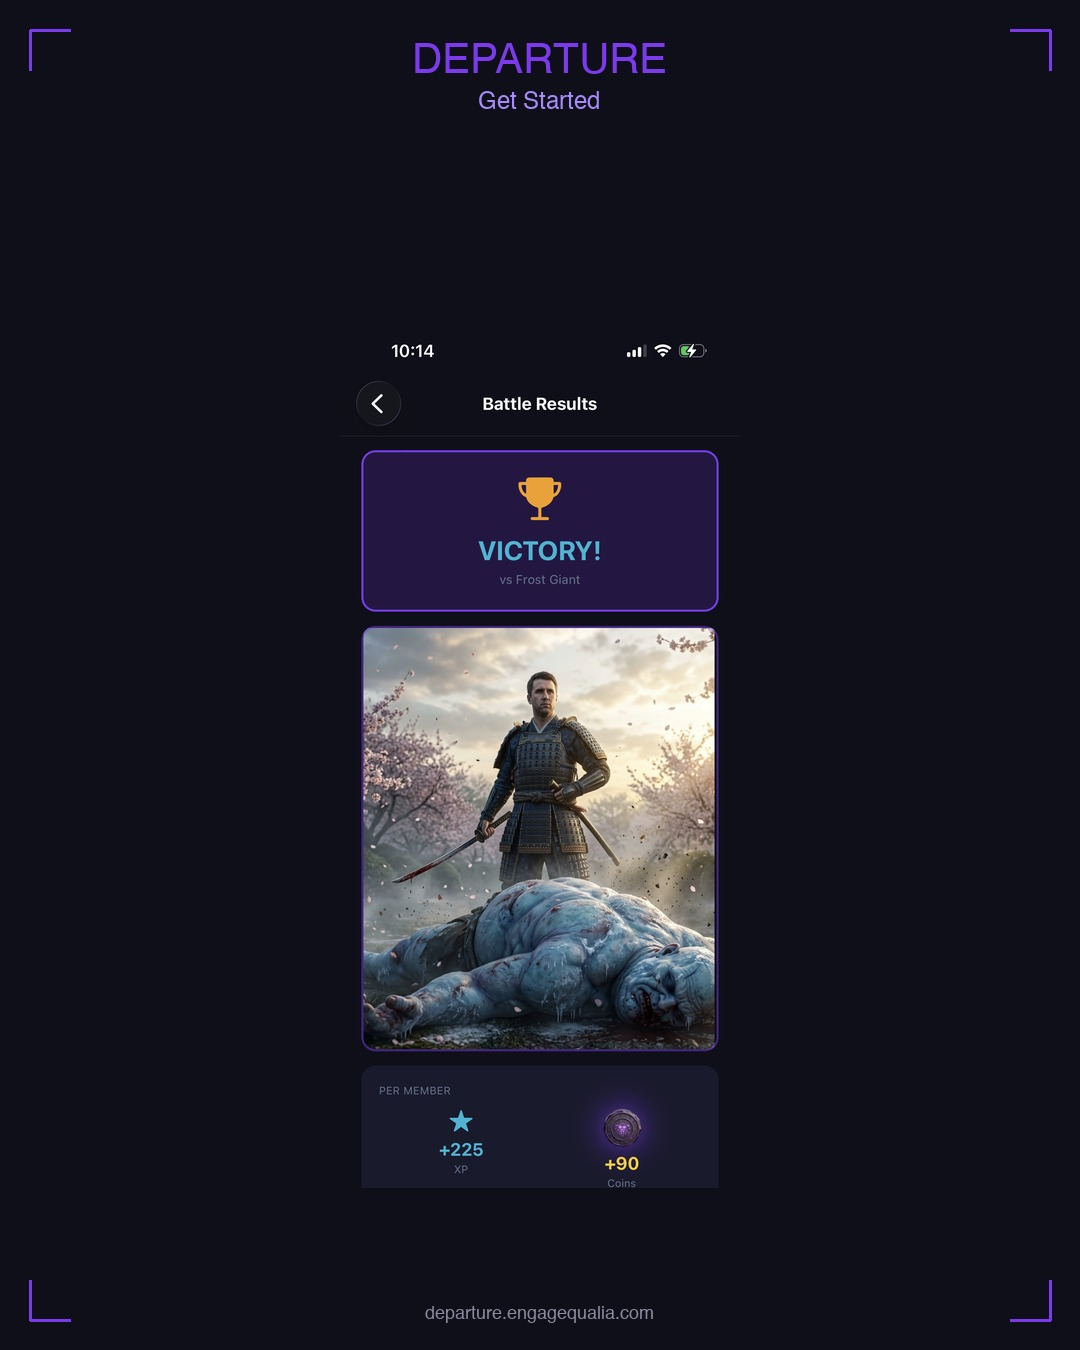
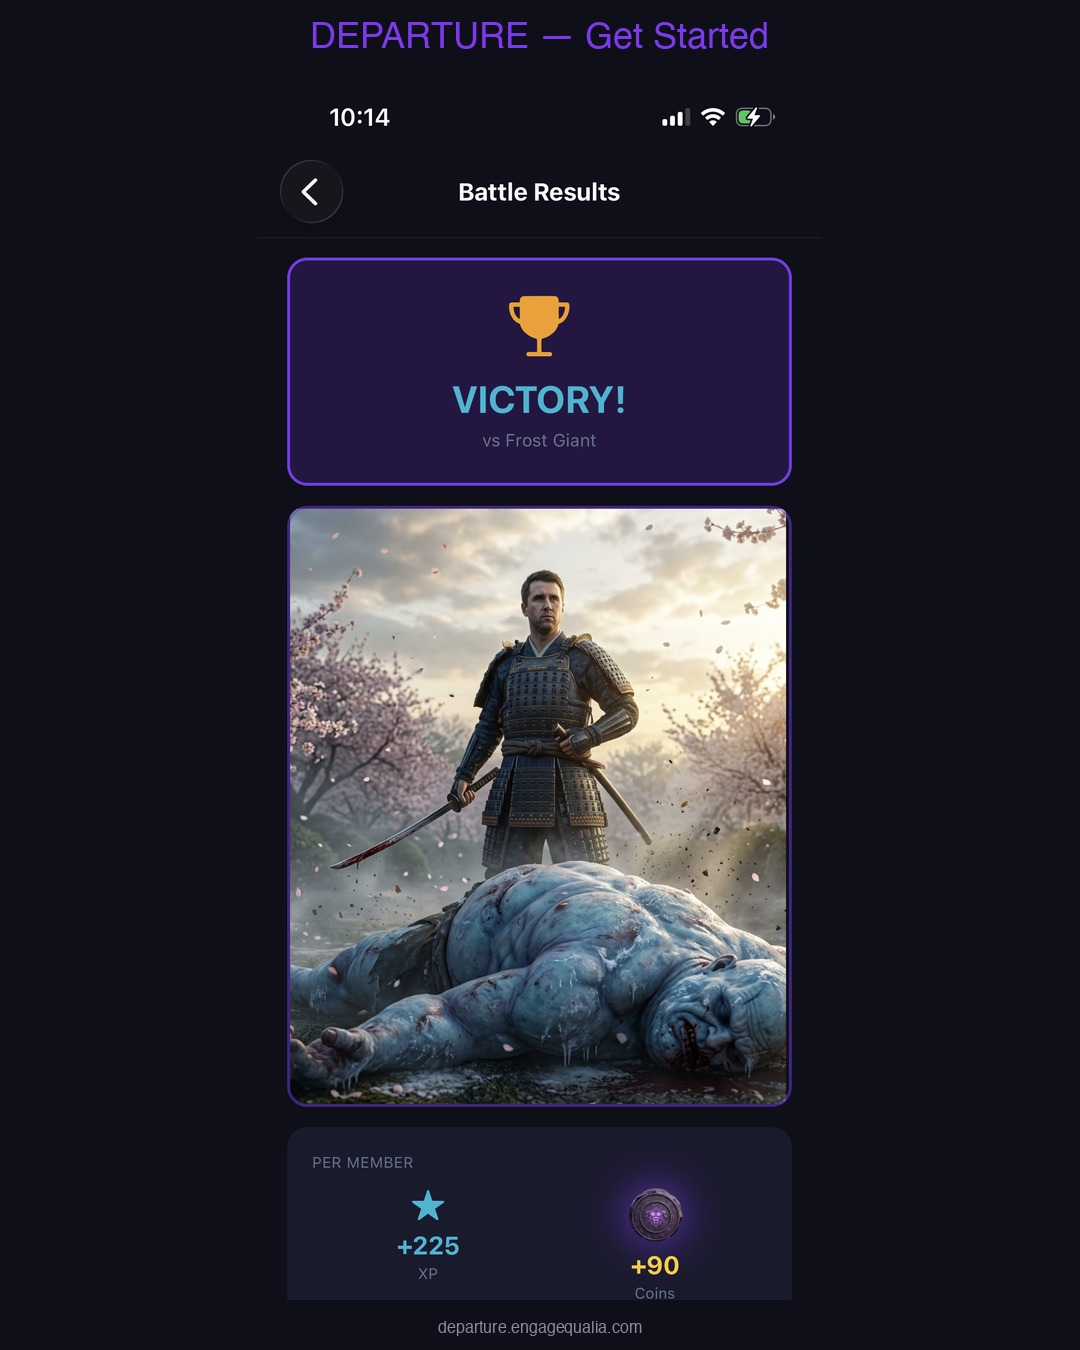
Improve social images: screenshots fill frame instead of tiny centered

diff --git a/scripts/generate-social-images.py b/scripts/generate-social-images.py
@@ -251,54 +251,55 @@ def create_monster_card(slug, data, output_path):
     print(f"  Created: {os.path.basename(output_path)}")
 
 def create_screenshot_post(screenshot_name, output_name, title=None, subtitle=None):
-    """Create a branded screenshot post."""
+    """Create a branded screenshot post — screenshot fills most of the frame."""
     img = Image.new("RGB", (W, H), BG_COLOR)
     draw = ImageDraw.Draw(img)
 
-    font_brand = get_font(42)
-    font_sub = get_font(24)
-    font_url = get_font(18)
+    font_brand = get_font(36)
+    font_sub = get_font(22)
+    font_url = get_font(16)
 
-    # Load screenshot
+    # Reserve space for branding
+    top_margin = 75 if title else 20
+    bottom_margin = 50
+    available_h = H - top_margin - bottom_margin
+
+    # Load screenshot and scale to fill the available space
     ss_path = os.path.join(SCREENSHOTS_DIR, screenshot_name)
     if os.path.exists(ss_path):
         ss = Image.open(ss_path).convert("RGBA")
         sw, sh = ss.size
-        target_w = 400
-        scale = target_w / sw
-        target_h = int(sh * scale)
-        ss = ss.resize((target_w, target_h), Image.LANCZOS)
 
-        x = (W - target_w) // 2
-        y_offset = 80 if title else 30
-        y = (H - target_h) // 2 + y_offset
+        # Scale to fit width (with small padding) or height, whichever is constraining
+        max_w = W - 60  # 30px padding each side
+        scale_w = max_w / sw
+        scale_h = available_h / sh
+        scale = min(scale_w, scale_h)
+
+        new_w = int(sw * scale)
+        new_h = int(sh * scale)
+        ss = ss.resize((new_w, new_h), Image.LANCZOS)
+
+        # Center horizontally, position below title
+        x = (W - new_w) // 2
+        y = top_margin + (available_h - new_h) // 2
         img.paste(ss, (x, y), ss)
         draw = ImageDraw.Draw(img)
 
-    # Title
+    # Title — compact at top
     if title:
-        bbox = draw.textbbox((0, 0), title, font=font_brand)
+        title_text = f"{title}"
+        if subtitle:
+            title_text = f"{title} — {subtitle}"
+        bbox = draw.textbbox((0, 0), title_text, font=font_brand)
         tw = bbox[2] - bbox[0]
-        draw.text(((W - tw) // 2, 40), title, fill=PRIMARY, font=font_brand)
-
-    if subtitle:
-        bbox = draw.textbbox((0, 0), subtitle, font=font_sub)
-        sw = bbox[2] - bbox[0]
-        draw.text(((W - sw) // 2, 90), subtitle, fill=PRIMARY_LIGHT, font=font_sub)
+        draw.text(((W - tw) // 2, 20), title_text, fill=PRIMARY, font=font_brand)
 
     # Bottom URL
     url = "departure.engagequalia.com"
     bbox = draw.textbbox((0, 0), url, font=font_url)
     uw = bbox[2] - bbox[0]
-    draw.text(((W - uw) // 2, H - 45), url, fill=TEXT_MUTED, font=font_url)
-
-    # Corner decorations
-    corner_len = 40
-    for corners in [((30, 30), (1, 1)), ((W-30, 30), (-1, 1)), ((30, H-30), (1, -1)), ((W-30, H-30), (-1, -1))]:
-        cx, cy = corners[0]
-        dx, dy = corners[1]
-        draw.line([(cx, cy), (cx + corner_len * dx, cy)], fill=PRIMARY, width=3)
-        draw.line([(cx, cy), (cx, cy + corner_len * dy)], fill=PRIMARY, width=3)
+    draw.text(((W - uw) // 2, H - 30), url, fill=TEXT_MUTED, font=font_url)
 
     output_path = os.path.join(SOCIAL_DIR, output_name)
     img.save(output_path, "JPEG", quality=92)
